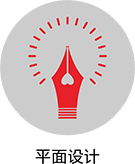
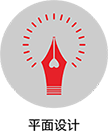
修复ys图标一栏hover时消失的问题.使用一张图实现整个效果

diff --git a/WebContent/static/front/css/public.css b/WebContent/static/front/css/public.css
@@ -117,44 +117,52 @@ body{
 
 .genius_index_1 li a{
 	color:#707070;height:130px;line-height:38px;font-size:16px;display:block;text-align:center;
-	background-image: url(../images/ys_1.png);
+	/* background-image: url(../images/ys_all.png); */
 	background-position: center;
 	background-repeat: no-repeat;
-	background-size: 58%;
+	/* background-size: 58%; */
 }
 .genius_index_1 li a:hover{
 	height:130px;line-height:38px;font-size:16px;color:#EB5C24;text-decoration:none;display:block;
-	background-image: url(../images/ys_1_on.png);
-	background-size: 58%;
+	/* background-image: url(../images/ys_all.png); */
+	/* background-size: 58%; */
 }
 .genius_index_1 .on {height:130px;line-height:38px;font-size:16px;color:#EB5C24;text-decoration:none;display:block;}
 .genius_index_1 .on a{color:#EB5C24;}
 
 
 #li-first a{
-	background-image: url(../images/ys_1.png);
+	background-image: url(../images/ys_all.png);
+	background-position:41px;
 }
 #li-second a{
-	background-image: url(../images/ys_2.png);
+	background-image: url(../images/ys_all.png);
+	background-position:-267px;
 }
 #li-third a{
-	background-image: url(../images/ys_3.png);
+	background-image: url(../images/ys_all.png);
+	background-position:-586px;
 }
 #li-fourth a{
-	background-image: url(../images/ys_4.png);
+	background-image: url(../images/ys_all.png);
+	background-position:-905px;
 }
 
 #li-first a:hover{
-	background-image: url(../images/ys_1_on.png);
+	background-image: url(../images/ys_all.png);
+	background-position:-116px;
 }
 #li-second a:hover{
-	background-image: url(../images/ys_2_on.png);
+	background-image: url(../images/ys_all.png);
+	background-position:-425px;
 }
 #li-third a:hover{
-	background-image: url(../images/ys_3_on.png);
+	background-image: url(../images/ys_all.png);
+	background-position:-743px;
 }
 #li-fourth a:hover{
-	background-image: url(../images/ys_4_on.png);
+	background-image: url(../images/ys_all.png);
+	background-position:-1062px;
 }
 
 

diff --git a/README.md b/README.md
@@ -66,5 +66,6 @@ www.cdszwh.com
 - 顶部电话改为文字而不是图片
 
 ### 版本2.3
-- 时间:2018-2-7
+- 时间:2018-2-7/2-8
 - 页面增加meta标签<meta content="IE=edge,chrome=1" http-equiv="X-UA-Compatible" />,以增强兼容性
+- 修复首页ys一栏hover时图片消失的BUG.并优化此栏加载速度.
